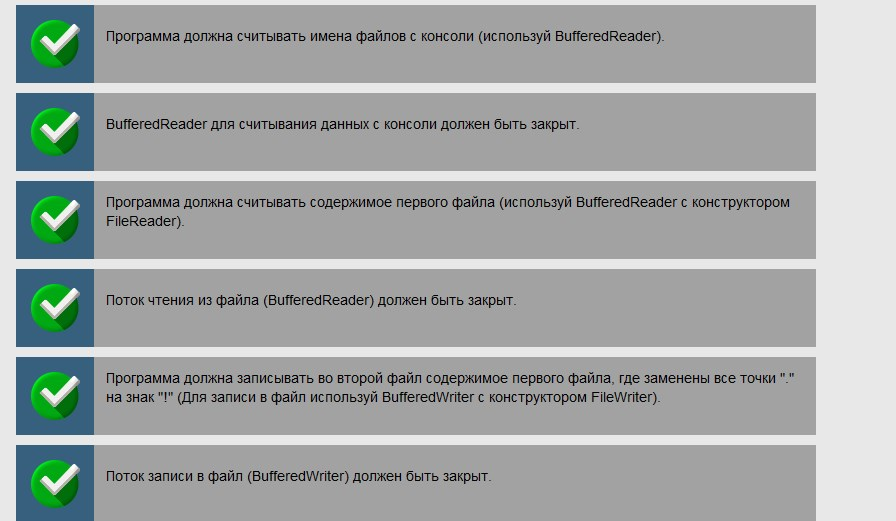
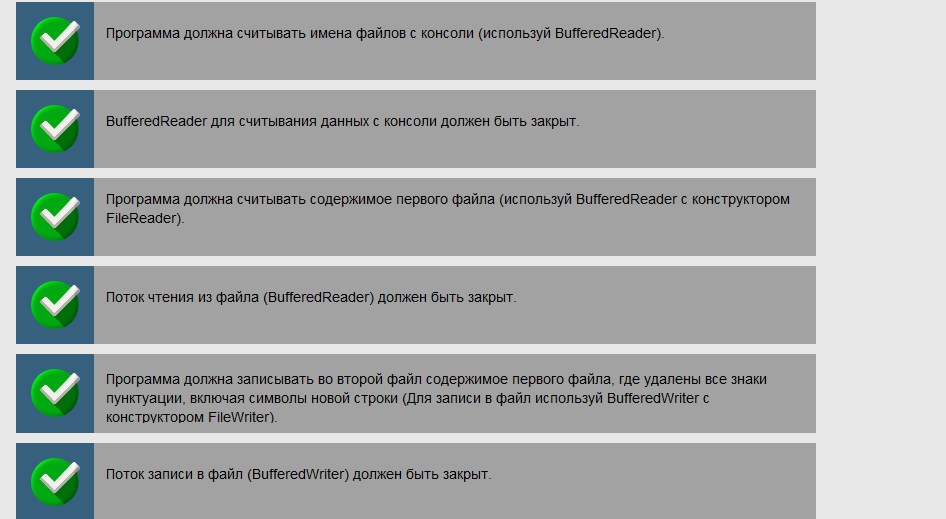
Пунктуация
task19.task1910;

Changed region(s): [[0.0, 0.0, 0.9375, 1.0]]

diff --git a/JavaRushTasks/JavaRushTasks/2.JavaCore/src/com/javarush/task/task19/task1910/Solution.java b/JavaRushTasks/JavaRushTasks/2.JavaCore/src/com/javarush/task/task19/task1910/Solution.java
@@ -1,0 +1,20 @@
+package com.javarush.task.task19.task1910;
+
+/* 
+Пунктуация
+Считать с консоли 2 имени файла.
+Первый Файл содержит текст.
+Считать содержимое первого файла, удалить все знаки пунктуации,
+включая символы новой строки.
+
+Результат вывести во второй файл.
+
+http://ru.wikipedia.org/wiki/%D0%9F%D1%83%D0%BD%D0%BA%D1%82%D1%83%D0%B0%D1%86%D0%B8%D1%8F
+
+Закрыть потоки.
+*/
+
+public class Solution {
+    public static void main(String[] args) {
+    }
+}
